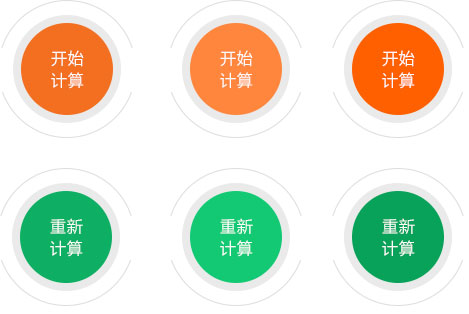
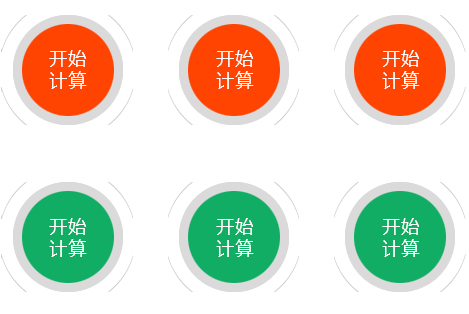
手机端登录页面修改

diff --git a/themes/default/mobile/passport/login.html b/themes/default/mobile/passport/login.html
@@ -1,5 +1,6 @@
 <{assign var="tpl_page_title" value="登录页"}>
 <{include file="mobile/block/header.html"}>
+<nav class="pding_log">快速登录</nav>
 <div class="pding login_cont">
 	<form id='login-form' class="login_form mb10">
 		<table>
@@ -22,14 +23,15 @@
 			</tr>
 			<{/if}>
 		</table>
-		<label class="rt">
+		<label>
 			<input type="checkbox" name="keep" class="check" />
 			30天之内自动登录</label>
 		<a  href="#" id='login-btn' class="btn subbtn_full">立即登录</a>
+		<p>没有账号？<a href="<{link ctl='mobile/passport:signup'}>" class="fontcl2">立即注册</a></p>
 	</form>
-	<p>第三方账号登录：</p>
+	<p class="mobile_lo">第三方账号登录</p>
 	<div class="other_login"> <a href="<{link ctl='mobile/passport:qqlogin'}>" class="qq_login"> <span class="app_ico qq_login_ico lt"></span> <span class="text">QQ账号登录</span> </a> <a href="<{link ctl='mobile/passport:weibo'}>" class="weibo_login"> <span class="app_ico weibo_login_ico lt"></span> <span class="text">微博账号登录</span> </a> </div>
-	<p>没有账号？<a href="<{link ctl='mobile/passport:signup'}>" class="fontcl2">立即注册</a></p>
+	
 </div>
 <script type="text/javascript">
 $(document).ready(function(){

diff --git a/system/plugins/widgets/tenders/companyForm.html b/system/plugins/widgets/tenders/companyForm.html
@@ -13,7 +13,7 @@
 		        <input type="text" name="data[home_name]" class="text full" placeholder="请输入您的小区名称" /> 
 		        <div class="sel-group">
 		        	<{widget id="data/region" city_id=$data.city_id|default:$request.city_id class="text short"}>
-		        </div>
+		        </div>            
 		        
 		        <{if $CONFIG.access.verifycode.tender}>
 		         <input class="text short lt" type="text" name="verifycode" placeholder="请输入验证码"/><img verify="#<{$widget.HASH}>" src="/index.php?magic-verify&_=<{$pager.dateline}>" id="<{$widget.HASH}>" class="yz_pic rt"/>
@@ -37,7 +37,7 @@
 		        <{if $CONFIG.access.verifycode.tender}>
 		         <input class="text short lt" type="text" name="verifycode" placeholder="请输入验证码"/><img verify="#<{$widget.HASH}>" src="/index.php?magic-verify&_=<{$pager.dateline}>" id="<{$widget.HASH}>" class="yz_pic rt"/>
 		        <{/if}>
-		        <input type="submit" value="帮您推荐附近靠谱装修公司" class="btn_sub_apply" />
+		        <input type="submit" value="免费为您出设计方案报价" class="btn_sub_apply" />
     		</form>
     	</li>
     </ul>

diff --git a/themes/default/mobile/static/css/style.css b/themes/default/mobile/static/css/style.css
@@ -682,3 +682,54 @@ span.gw_price{ position:absolute; right:5px; background:#f5f5f5; top:-5px;}
 	color: #fff;
 	background-color: #ff4401;
 }
+/* 登录页样式修改 */
+.pding_log{
+	width: 100%;
+	line-height: 40px;
+	margin-top: 30px;
+	font-size: 16px;
+	text-align: center;
+}
+#login-form{
+	width: 85%;
+    overflow: hidden;
+    margin: 0 auto;
+}
+.login_form td.pro input.full {
+    position: relative;
+    width: 100%;
+    padding-left: 15%;
+    border-color: #eee;
+    border-radius: 2px;
+}
+.login_form span.loginIo {
+    top: 10px;
+    left: 15px;
+}
+form .text {
+    margin-bottom: 15px;
+}
+.login_form input.short {
+    width: 56%;
+    padding-left: 10px;
+}
+.login_form .yanzh{
+	height: 38px;
+	border: 1px #eee solid;
+	padding:0px;
+}
+.mobile_lo{
+	width: 100%;
+    font-size: 16px;
+    text-align: center;
+    line-height: 70px;
+}
+.other_login{
+	width: 85%;
+	margin: 0px auto;
+	margin-bottom: 30%;
+}
+.position a:last-child{
+	display: none;
+}
+/* 登录页样式修改 */

diff --git a/themes/fangTo8to/static/css/index.css b/themes/fangTo8to/static/css/index.css
@@ -993,7 +993,7 @@ select.text:last-child{
 	margin-top: 10px;
 }
 .company-form ul li form input {
-    width: 86%;
+    width: 80%;
     margin-bottom: 10px;
     outline: none;
 }
@@ -1001,7 +1001,7 @@ select.text:last-child{
 	border-color: #ff4401;
 }
 .company-form ul li form .budget{
-	width: 255px;
+	width: 237px;
     margin-bottom: 10px;
     outline: none;
     height: 34px;
@@ -1009,7 +1009,7 @@ select.text:last-child{
 }
 
 .company-form ul li form .sel-group {
-    width: 88%;
+    width: 82%;
     margin: 0 auto;
     margin-bottom: 11px;
     overflow: hidden;
@@ -1026,7 +1026,7 @@ select.text:last-child{
 	border-color: #ff4401;
 }
 .company-form ul li form select.text:last-child{
-	width:111px;
+	width:94px;
 	margin-right: 0;
 }
 .company-form ul li form select:focus{
@@ -1034,7 +1034,7 @@ select.text:last-child{
 	border-color: #ff4401;
 }
 .company-form ul li form input[type=submit]{
-	width:87%;
+	width:82%;
     margin-top: 13px;
     margin-bottom: 20px;
     color: #fff;

diff --git a/themes/default/static/css/zxbj_new_two.css b/themes/default/static/css/zxbj_new_two.css
@@ -128,10 +128,13 @@ i {
     width: 142px;
     height: 142px;
     background: url(../images/learn/zxbj_calc.jpg) no-repeat;
-    background-position: 0 0;
+    background-position: 0px -165px;
+}
+.calc-btn:hover{
+    background-position: 0px 2px;
 }
 .calc-btn:active {
-	background-position: -331px 0;
+	background-position: -332px 2px;
 }
 .calc-btn.recalc {
     background-position: 0 -168px;

diff --git a/themes/default/mobile/block/footer.html b/themes/default/mobile/block/footer.html
@@ -60,5 +60,9 @@
 var _bdhmProtocol = (("https:" == document.location.protocol) ? " https://" : " http://");
 document.write(unescape("%3Cscript src='" + _bdhmProtocol + "hm.baidu.com/h.js%3F8902a98c3698f61f886e76e9dc1cfe53' type='text/javascript'%3E%3C/script%3E"));
 </script>
+<script>
+	// 隐藏百度统计小图标
+	$("img:last").hide();
+</script>
 </body>
 </html>

diff --git a/themes/default/newactivity/index.html b/themes/default/newactivity/index.html
@@ -315,7 +315,7 @@ jq(function() {
 					type: 2,	
 					title:'',
 				    area: ['1030px', '450px'], //宽高
-				    content: ['http://www.beneecn.cc/index.php?tenders-popup.html','no']
+				    content: ['http://www.alyeecn.cc/index.php?tenders-popup.html','no']
 				});
 			})
 });
